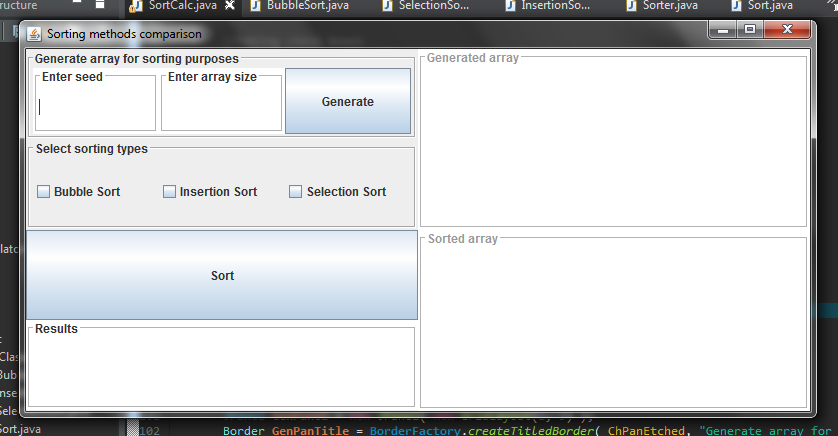
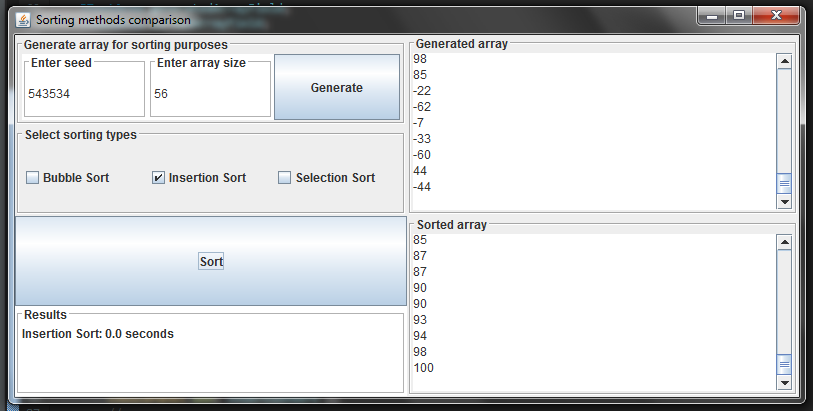
Update v1.00
Added Generate button functionality

diff --git a/src/SortCalc/SortCalc.java b/src/SortCalc/SortCalc.java
@@ -12,12 +12,14 @@ import javax.swing.JButton;
 import javax.swing.JCheckBox;
 import javax.swing.JFrame;
 import javax.swing.JList;
+import javax.swing.JOptionPane;
 import javax.swing.JPanel;
 import javax.swing.JScrollPane;
 import javax.swing.JTextArea;
 import javax.swing.JTextField;
 import javax.swing.border.Border;
 
+import SortCalc.SortClasses.Sort;
 import SortCalc.SortClasses.Sorter;
 
 public class SortCalc
@@ -55,10 +57,11 @@ class SortFrame extends JFrame implements ItemListener
 	
 	Sorter sorter = new Sorter();
 	
-	//Reading files
-	FileOpener bubbleCode = new FileOpener( "BubbleSort" );
-	FileOpener insertionCode = new FileOpener( "InsertionSort" );
-	FileOpener selectionCode = new FileOpener( "SelectionSort" );
+	JTextArea generatedArrayField;
+	JTextArea sortedArrayField;
+	
+	JTextField SeedField;
+	JTextField QuantityField;
 	
 	SortFrame()
 	{
@@ -103,15 +106,16 @@ class SortFrame extends JFrame implements ItemListener
 		GenPanel.setBorder( GenPanTitle );
 		
 
-		JTextField SeedField = new JTextField();
+		SeedField = new JTextField();
 		Border SeedFieldTitle = BorderFactory.createTitledBorder( ChPanEtched, "Enter seed" );
 		SeedField.setBorder( SeedFieldTitle );
 		
-		JTextField QuantityField = new JTextField();
+		QuantityField = new JTextField();
 		Border QuantityFieldTitle = BorderFactory.createTitledBorder( ChPanEtched, "Enter array size" );
 		QuantityField.setBorder( QuantityFieldTitle );
 		
 		JButton GenerateButton = new JButton( "Generate" );
+		GenerateButton.addActionListener( new GenerateAction() );
 
 		GenPanel.add( SeedField );
 		GenPanel.add( QuantityField );
@@ -131,20 +135,44 @@ class SortFrame extends JFrame implements ItemListener
 		Border GenArrTitle = BorderFactory.createTitledBorder( ChPanEtched, "Generated array" );
 		Border SortArrTitle = BorderFactory.createTitledBorder( ChPanEtched, "Sorted array" );
 		
-		JTextArea generatedArrayField = new JTextArea();
-		generatedArrayField.setBorder( GenArrTitle );
-		generatedArrayField.setEnabled(false);
+		generatedArrayField = new JTextArea();
+		generatedArrayField.setEditable(false);
+		JScrollPane generatedArrayFieldSc = new JScrollPane( generatedArrayField );
+		generatedArrayFieldSc.setBorder( GenArrTitle );
 		
-		JTextArea sortedArrayField = new JTextArea();
-		sortedArrayField.setBorder( SortArrTitle );
-		sortedArrayField.setEnabled(false);
+		sortedArrayField = new JTextArea();
+		sortedArrayField.setEditable(false);
+		JScrollPane sortedArrayFieldSc = new JScrollPane( sortedArrayField );
+		sortedArrayFieldSc.setBorder( SortArrTitle );
 		
-		
-		rightPanel.add( generatedArrayField );
-		rightPanel.add( sortedArrayField );
+		rightPanel.add( generatedArrayFieldSc );
+		rightPanel.add( sortedArrayFieldSc );
 		
 		add(leftPanel);
 		add(rightPanel);
+	}
+	
+	class GenerateAction implements ActionListener
+	{
+		public void actionPerformed( ActionEvent event )
+		{
+			String seed = SeedField.getText();
+			String size = QuantityField.getText();
+			try
+			{
+				int seedInt = Integer.parseInt( seed );
+				int sizeInt = Integer.parseInt( size );
+				if( seedInt > 0 && sizeInt > 0 )
+				{
+					sorter.drawArray( sizeInt, seedInt );
+					writeGenArr();			
+				} else JOptionPane.showMessageDialog(null, "Only numbers > 0" );
+			}
+			catch( NumberFormatException e )
+			{
+				JOptionPane.showMessageDialog(null, "Wrong input (max value = " + Integer.MAX_VALUE + ")" );
+			}
+		}
 	}
 	
 	class SortAction implements ActionListener
@@ -154,9 +182,10 @@ class SortFrame extends JFrame implements ItemListener
 			for( int i = 0; i < resmodel.getSize(); i++ )
 			{
 				String temp = (String) resmodel.getElementAt(i);
-				String res = sorter.sortTime( temp );
-				resmodel.setElementAt( res, i );
+				String result = sorter.sortTime( temp );
+				resmodel.setElementAt( result, i );
 			}
+			writeSortArr();
 		}
 	}
 	
@@ -194,5 +223,21 @@ class SortFrame extends JFrame implements ItemListener
 				return i;
 		}
 		return 0;
+	}
+	
+	public void writeGenArr()
+	{
+		String temp = "";
+		for( int i = 0; i < sorter.getRandoms().length; i++ )
+			temp += sorter.getRandoms()[i] + "\n";
+		generatedArrayField.setText( temp );
+	}
+	
+	public void writeSortArr()
+	{
+		String temp = "";
+		for( int i = 0; i < Sort.getArr().length; i++ )
+			temp += Sort.getArr()[i] + "\n";
+		sortedArrayField.setText( temp );
 	}
 }

diff --git a/src/SortCalc/SortClasses/Sorter.java b/src/SortCalc/SortClasses/Sorter.java
@@ -4,8 +4,12 @@ import java.util.Random;
 
 public class Sorter
 {
-	private static final int size = 100;
+	private static final int size = 10000;
+	private static final int MIN_RANDOM = (-100);
+	private static final int MAX_RANDOM = 100;
 	private int[] randoms;
+	Random rand;
+	
 	public Sorter()
 	{
 		Random rand = new Random();
@@ -28,5 +32,12 @@ public class Sorter
 		Random rand = new Random();
 		rand.setSeed( seed );
 		randoms = rand.ints( size ).toArray();
+		for( int i = 0; i < randoms.length; i++ )
+			randoms[i] = ( randoms[i] + MIN_RANDOM ) % ( MAX_RANDOM + 1 );
+	}
+	
+	public int[] getRandoms()
+	{
+		return randoms;
 	}
 }

diff --git a/src/SortCalc/SortClasses/SelectionSort.java b/src/SortCalc/SortClasses/SelectionSort.java
@@ -14,7 +14,7 @@ public class SelectionSort extends Sort
 		
 		while( n > 1 )
 		{
-			int T = 0;
+			int T = Integer.MIN_VALUE;
 			int pos = 0;
 			for( int i = 0; i < n; i++ )
 				if( getArr()[i] > T )

diff --git a/src/SortCalc/SortClasses/Sort.java b/src/SortCalc/SortClasses/Sort.java
@@ -13,7 +13,7 @@ public abstract class Sort
 	
 	public abstract float sort();
 	
-	public int[] getArr()
+	public static int[] getArr()
 	{
 		return randoms;
 	}
